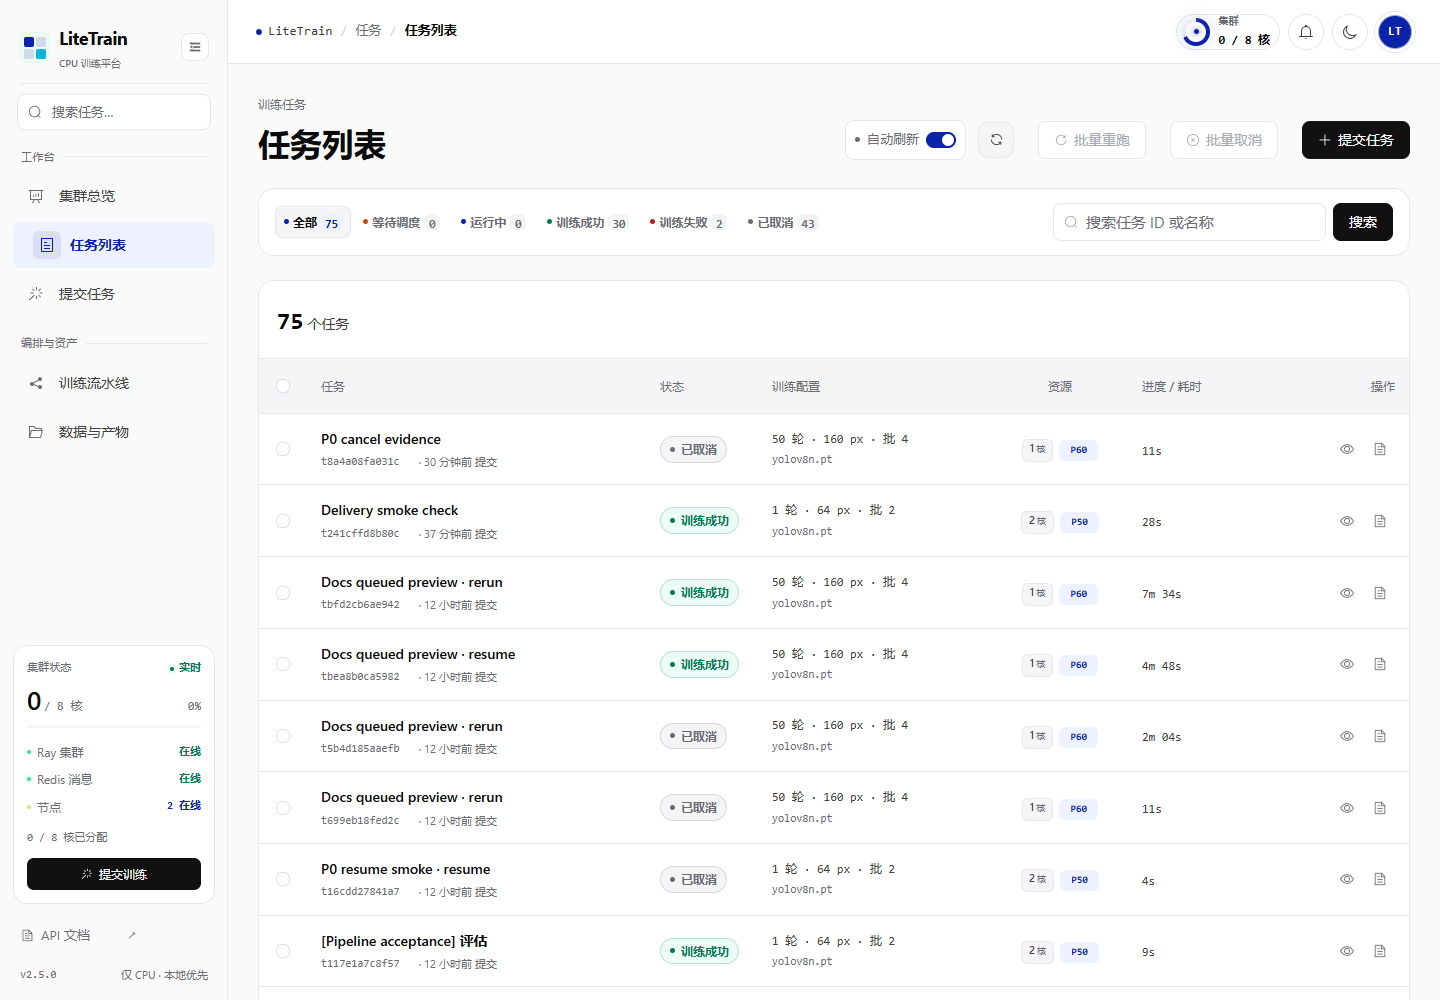
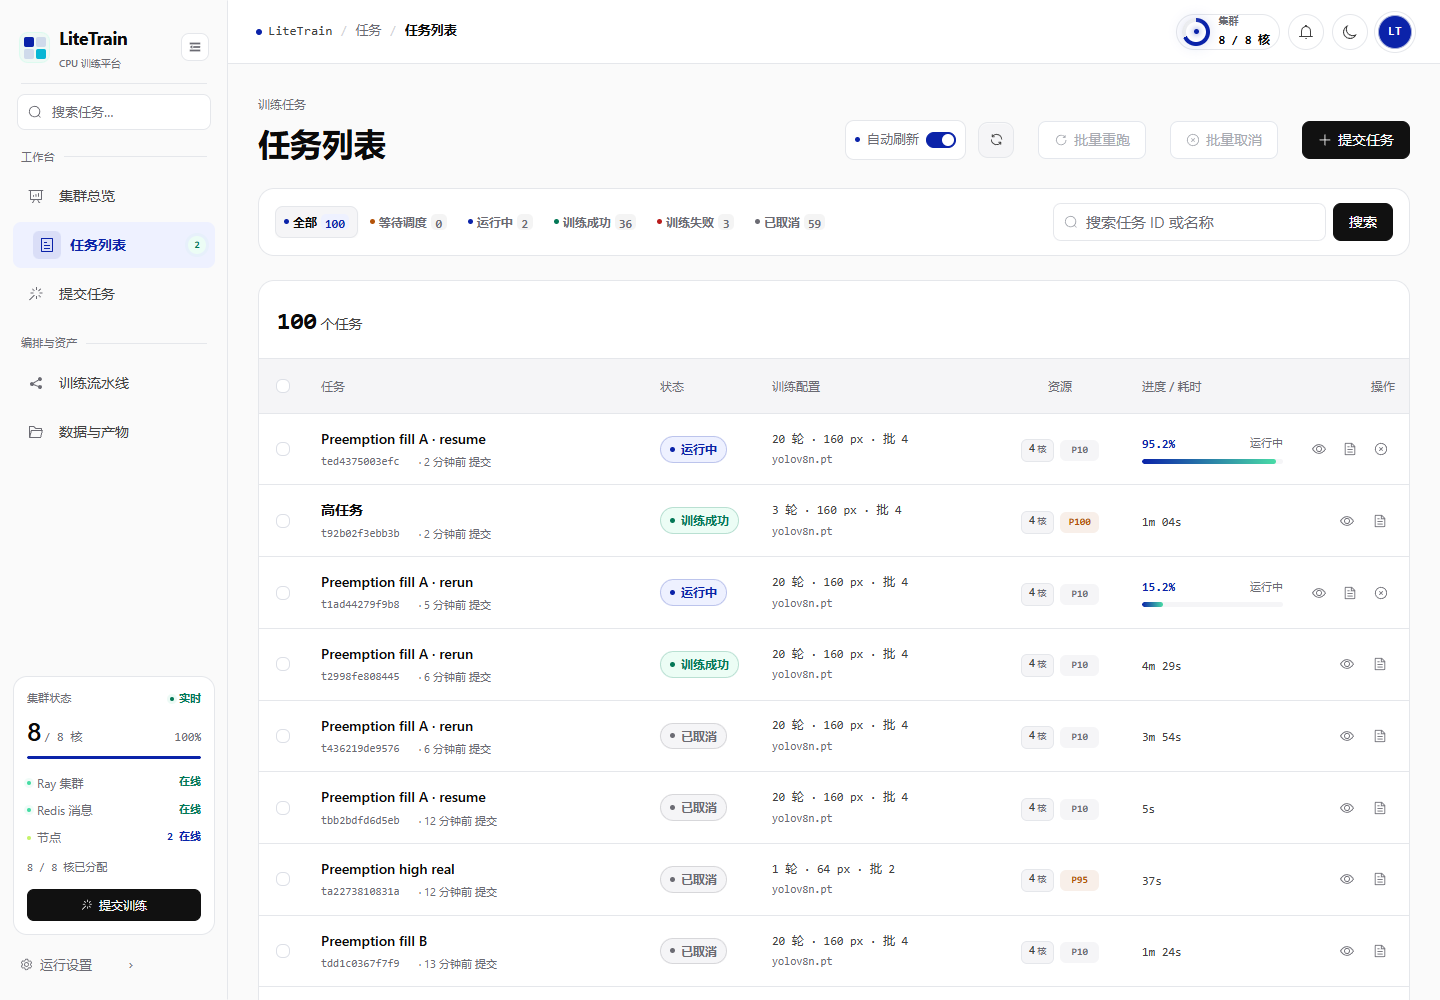
style(web): remove sidebar API and version footer

diff --git a/frontend/src/layout/AppLayout.vue b/frontend/src/layout/AppLayout.vue
@@ -5,7 +5,6 @@ import {
   Bell,
   BellFilled,
   DataAnalysis,
-  Document,
   Expand,
   Fold,
   FolderOpened,
@@ -321,15 +320,6 @@ onBeforeUnmount(() => {
           <span>运行设置</span>
           <span class="sidebar-doc-arrow">›</span>
         </button>
-        <a class="sidebar-doc" href="/docs" target="_blank" rel="noreferrer">
-          <el-icon><Document /></el-icon>
-          <span>API 文档</span>
-          <span class="sidebar-doc-arrow">↗</span>
-        </a>
-        <div class="sidebar-signature">
-          <span class="mono">v2.5.0</span>
-          <span>仅 CPU · 本地优先</span>
-        </div>
       </div>    </aside>
 
     <div v-if="mobileNavOpen" class="nav-backdrop" @click="mobileNavOpen = false"></div>
